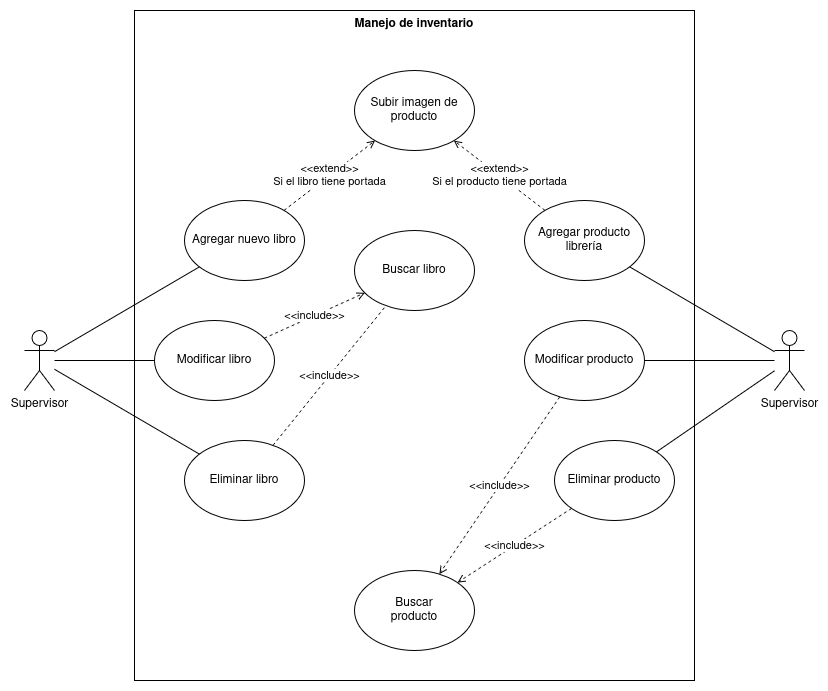
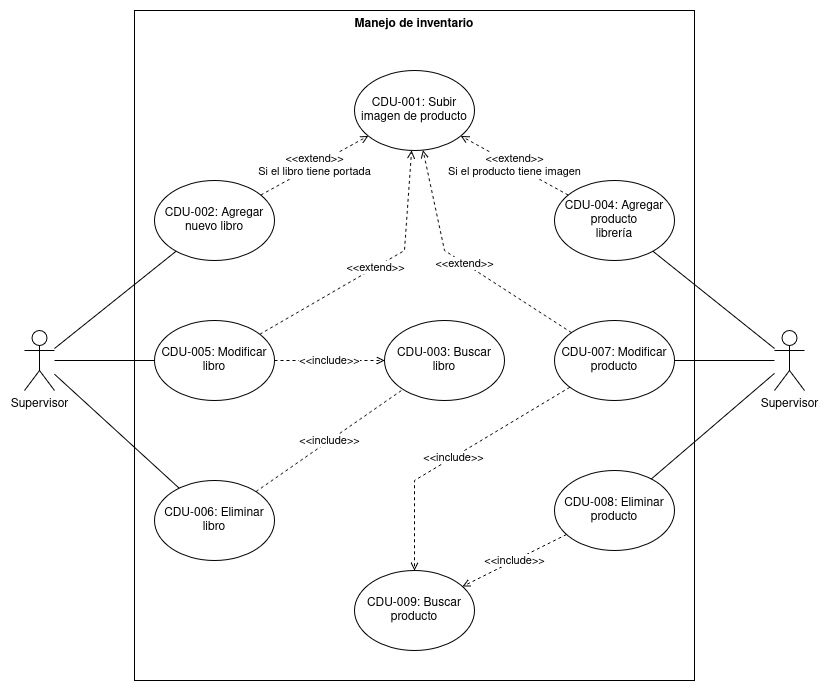
Modificar el resto de la solución 1

diff --git a/README.md b/README.md
@@ -94,19 +94,29 @@ listado:
     3. Se agrega la imagen de portada del libro
     4. Se envian los datos al sistema
 - **Escenario Alternativo:**
-    - El libro no cuenta con una imagen de portada y puede dejarse vacia
+    3a. El libro no cuenta con una imagen de portada y puede dejarse vacia
+    4. Se envian los datos al sistema
+- **Escenario Alternativo:**
+    4a. El libro ya existe en el sistema
+    5. Los datos son rechazados por el sistema
 
 # Requerimientos funcionales generales
 
 ## Requerimientos funcionales
 
-- RF1: Los supervisores pueden agregar nuevos libros al sistema
-- RF2: Los empleados pueden realizar ventas a través del sistema
-- RF3: Al realizar una venta exitosa, se genera una factura automáticamente y se almacena en el sistema
-- RF4: Los clientes pueden buscar libros a través de un buscador dentro del portal web
-- RF5: Los clientes pueden registrarse en el portal web
-- RF6: Los clientes pueden iniciar sersión en el portal web
-- RF7: Los clientes pueden comprar libros a través del portal web
+- RF1: Los supervisores pueden agregar libros al sistema
+- RF2: Los supervisores pueden eliminar libros en el sistema
+- RF3: Los supervisores pueden modificar libros en el sistema
+- RF4: Los supervisores pueden agregar productos al sistema
+- RF5: Los supervisores pueden eliminar productos en el sistema
+- RF6: Los supervisores pueden modificar productos en el sistema
+- RF7: Se pueden buscar libros en el sistema
+- RF8: Se pueden buscar productos en el sistema
+- RF9: Se pueden agregar imágenes a los productos
+.
+.
+.
+y aquí van todo el resto a partir de los CDU
 
 ## Requerimientos no funcionales
 
@@ -127,6 +137,10 @@ listado:
 ### Disponibilidad
 - RNF9: El sistema debe tener una disponibilidad del 99,99% anual
 - RNF10: Los despliegues de nuevas funcionalidades no deben interrumpir a los usuarios en la plataforma
+.
+.
+.
+Hacer el resto con los CDU
 
 # Matrices trazabilidad
 Solamente contienen los CDU en este documento. Las reales tendrían todos los requerimientos y CDU*
@@ -142,37 +156,45 @@ Solamente contienen los CDU en este documento. Las reales tendrían todos los re
 
 ## Stakeholders vs Requerimientos
 
-| stakeholder | RF1 | RF2 | RF3 | RF4 | RF5 | RF6 | RF7 | ... |
-|-------------|:---:|:---:|:---:|:---:|:---:|:---:|:---:|:---:|
-| Gerente     |     |     |     |     |     |     |     |     |
-| Supervisor  |  x  |     |     |     |     |     |     |     |
-| Empleado    |     |  x  |  x  |     |     |     |     |     |
-| Cliente     |     |     |     |  x  |  x  |  x  |  x  |     |
+| stakeholder | RF1 | RF2 | RF3 | RF4 | RF5 | RF6 | RF7 | RF8 | RF9 | ... |
+|-------------|:---:|:---:|:---:|:---:|:---:|:---:|:---:|:---:|:---:|:---:|
+| Gerente     |     |     |     |     |     |     |     |     |     |     |
+| Supervisor  |  x  |  x  |  x  |  x  |  x  |  x  |  x  |  x  |  x  |     |
+| Empleado    |     |     |     |     |     |     |     |     |     |     |
+| Cliente     |     |     |     |     |     |     |     |     |     |     |
 
 ## Requerimientos vs CDU
 
 | Requerimento | CDU-001 | CDU-002 | CDU-003 | CDU-004 | CDU-005 | CDU-006 | CDU-007 | CDU-008 | CDU-009 | ... |
 |--------------|:-------:|:-------:|:-------:|:-------:|:-------:|:-------:|:-------:|:-------:|---------|:---:|
 | RF1          |         |    x    |         |         |         |         |         |         |         |     |
-| RF2          |         |         |         |         |         |         |         |         |         |     |
-| RF3          |         |         |         |         |         |         |         |         |         |     |
-| RF4          |         |         |    x    |         |         |         |         |         |         |     |
-| RF5          |         |         |         |         |         |         |         |         |         |     |
-| RF6          |         |         |         |         |         |         |         |         |         |     |
-| RF7          |         |         |         |         |         |         |         |         |         |     |
+| RF2          |         |         |         |         |         |    x    |         |         |         |     |
+| RF3          |         |         |         |         |    x    |         |         |         |         |     |
+| RF4          |         |         |         |    x    |         |         |         |         |         |     |
+| RF5          |         |         |         |         |         |         |         |    x    |         |     |
+| RF6          |         |         |         |         |         |         |    x    |         |         |     |
+| RF7          |         |         |    x    |         |    x    |    x    |         |         |         |     |
+| RF8          |         |         |         |         |         |         |    x    |    x    |    x    |     |
+| RF9          |    x    |    x    |         |    x    |    x    |         |    x    |         |         |     |
 
 # Selección de estilo arquitectónico
 
 Se escogío el estílo n-capas, ya que permite organizar los componentes según el propósito que cumplen y es especialmente
-útil para aplicaciones web. La insfraestructura para el portal web es dinámica porque todas las capas pueden ir en
-un mismo servidor, o cada capa puede ir en diferentes seridores/servicios, ya sea on-premise o en la nube.
+útil para aplicaciones web. La insfraestructura para el portal web es dinámica porque todas las capas van en dispositivos diferentes, ya sea on-premise o en la nube.
 
-En este caso, cada componente será ejectudo por medio de docker compose.
+- Capa presentación: En esta capa irá una aplicación sveltekit
+- Capa lógica:
+    - En esta capa irá una aplicación de Express
+    - Usaremos un servicio externo para el envio de correos
+- Capa datos:
+    - Se utilizará PostgreSQL para la persistencia de datos
+    - Los documentos estáticos como facturas e imágenes irán en un servidor aparte
 
 # Diagrama de bloques
 
-![](./assets/solucion_fase1-bloques_2.png)
+![](./assets/solucion_fase1-bloques_3.png)
 
 # Diagrama de despliegue
+* este es mejor subirlo como .svg porque suele ser grande
 
-![](./assets/solucion_fase1-despliegue_2.png)
+![](./assets/solucion_fase1-despligues_3.svg)
